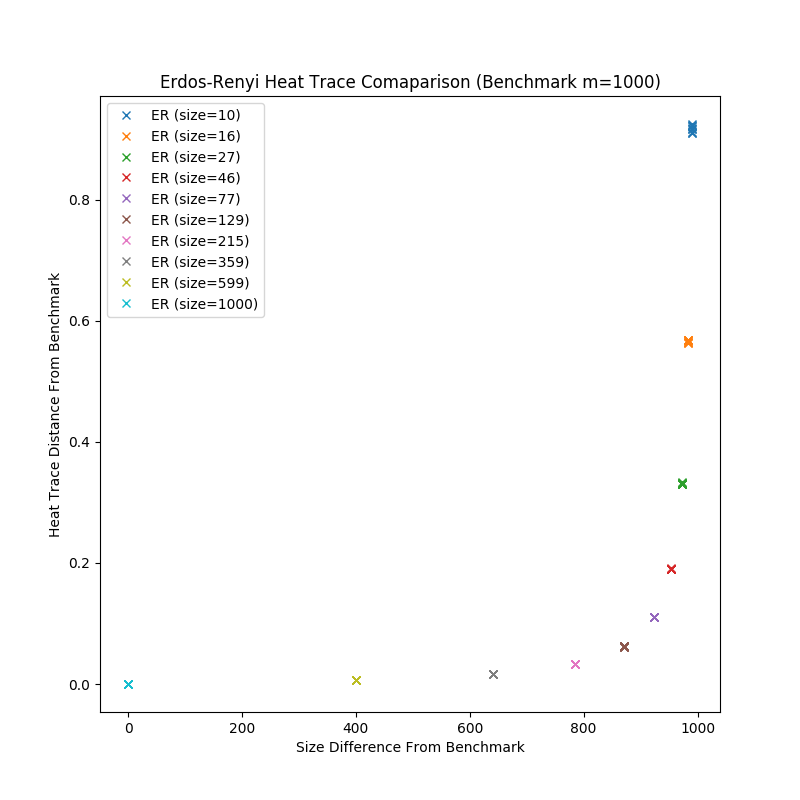
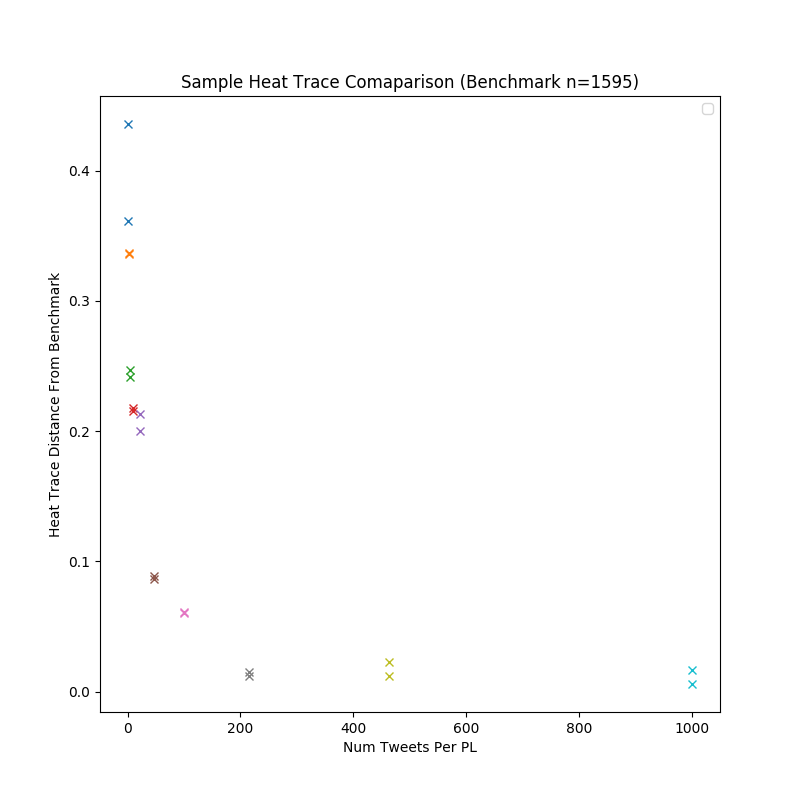
43 tweets per party leader seems to be sufficient to capture the structure of the graph. Running the alpha sweep to test and see. with new way of adding nodes

diff --git a/graph/stochastic_block_model.py b/graph/stochastic_block_model.py
@@ -146,12 +146,12 @@ def draw_graph(G, save=False, file_name="stochastic_block_graph", file_type='png
     print("--- Drawing {} nodes and {} edges ---".format(len(G.nodes()),
                                                          G.number_of_edges()))
     width = 0.2 if not transparent else 0
-    # node_size = 20 if not transparent else 200
+    node_size = 20 if not transparent else 200
     nx.draw_networkx(G, pos,
                      node_color=colors,
                      with_labels=False,
                      alpha=0.75,
-                     node_size=200,
+                     node_size=node_size,
                      width=width,
                      arrows=False
                      )
@@ -376,8 +376,10 @@ def stochastic_hybrid_graph(alpha=0.8,n=5, tweet_dist=(1000, 300), k=7, m=60000,
     pbar = tqdm.tqdm(total=m) if verbose else None
     retweets_per_user = sample_from_histogram(retweet_histogram,m) 
     topic_leader = [i for i in range(n*k)]
+    # assert np.min(retweets_per_user) > 0, str(retweets_per_user)
     for j,d in enumerate(retweets_per_user):    
         if verbose: pbar.update(1)
+        assert d >0, "retweets per user {}".format(retweets_per_user)
         username = "user_{}".format(j)
         topic_history = G.nodes()[username]["topic_history"].copy()
         leader_history = G.nodes()[username]["leader_history"].copy()
@@ -387,11 +389,11 @@ def stochastic_hybrid_graph(alpha=0.8,n=5, tweet_dist=(1000, 300), k=7, m=60000,
             leader_distribution = predict_next_retweet(leader_history, NEXT_LEADER_NN, use_model=use_model).reshape((1, n))
             topic_distribution *= (1-alpha)
             leader_distribution *= alpha
-            # normalize 
-            if k>n:
-                topic_distribution *= (k/n)
-            else:
-                leader_distribution *= (n/k)
+            # # normalize 
+            # if k>n:
+            #     topic_distribution *= (k/n)
+            # else:
+            #     leader_distribution *= (n/k)
             # Add the weighted distributions together. Element (i,j) in this
             # matrix means the weight of choosing a tweet about topic i from party leader j
             topic_leader_matrix = topic_distribution.T+leader_distribution
@@ -403,7 +405,6 @@ def stochastic_hybrid_graph(alpha=0.8,n=5, tweet_dist=(1000, 300), k=7, m=60000,
             winning_topic, winning_leader = np.unravel_index(topic_leader_ind, (k, n))
             pos_tweets = possible_tweets(G, username, leader=winning_leader, topic=winning_topic)
             if len(pos_tweets) > 0:
-                # print(winning_leader,leader_distribution)
                 winning_tweet = np.random.choice(pos_tweets)
                 leader_history[winning_leader] += 1
                 topic_history[winning_topic] += 1
@@ -423,8 +424,7 @@ Twitter Data
 if __name__ == "__main__":
     usernames = sys.argv[1:] if sys.argv[1:] else ["JustinTrudeau", "ElizabethMay", "theJagmeetSingh", "AndrewScheer", "MaximeBernier"]
     retweet_histogram = Graph(usernames).retweet_histogram()
-    sample_g = Graph(usernames,n=50)
-    sample_g.draw_graph(save=True)
+    sample_g = Graph(usernames,n=100)
     kwargs = {
         "tweet_dist": (sample_g.num_tweets, sample_g.num_tweets//5),
         "n": 5,
@@ -437,12 +437,12 @@ if __name__ == "__main__":
     str_args = str({i:kwargs[i] for i in kwargs if i!='retweet_histogram'})
     party_file_name="stochastic_party_leader_{}".format(str_args)
     party_G = stochastic_party_leader_graph(**kwargs)
-    draw_graph(party_G,save=True,file_name=party_file_name,title="Party Leader Graph")
+    draw_graph(party_G,save=False,file_name=party_file_name,title="Party Leader Graph")
     topic_file_name="stochastic_topic_{}".format(str_args)
     topic_G = stochastic_topic_graph(**kwargs)
-    draw_graph(topic_G,save=True,file_name=topic_file_name,title="Topic Graph")
+    draw_graph(topic_G,save=False,file_name=topic_file_name,title="Topic Graph")
     for alpha in np.round(np.arange(1,-0.01,-0.1),3).tolist():
         print("--- alpha {} --".format(alpha))
         hybrid_file_name = "stochastic_hybrid_graph_alpha={}_{}".format(alpha,str_args)
         hybrid_G = stochastic_hybrid_graph(alpha=alpha,**kwargs)
-        draw_graph(hybrid_G, save=True, file_name=hybrid_file_name, title="Hybrid Graph. Alpha={}".format(alpha))
+        draw_graph(hybrid_G, save=False, file_name=hybrid_file_name, title="Hybrid Graph. Alpha={}".format(alpha))

diff --git a/graph/comp_graphs.py b/graph/comp_graphs.py
@@ -77,7 +77,7 @@ def plot_heat_traces(heat_dict,is_normalized=True,save_fig=False):
             ax.fill_between(times, heat_traces+std_dev, heat_traces-std_dev, alpha=0.5)
         ax.plot(times,heat_traces,label=label)
     ax.legend()
-    file_name = "_".join(heat_dict.keys()).replace(" ", "_").lower()
+    file_name = '_'.join(map(str, heat_dict.keys())).replace(" ", "_").lower()
     file_name += "_heat_trace_plot"
     file_name = "normalized_"+file_name if is_normalized else file_name
     plt.savefig("../visualizations/heat_traces/{}.png".format(file_name)) if save_fig else plt.show()
@@ -189,9 +189,10 @@ def fit_hybrid_model(target_graph,num_epochs=1000,learning_rate=0.01,min_delta=0
 if __name__ == "__main__":
     usernames = sys.argv[1:] if sys.argv[1:] else ["JustinTrudeau", "ElizabethMay", "theJagmeetSingh", "AndrewScheer", "MaximeBernier"]
     retweet_histogram = Graph(usernames).retweet_histogram()
-    sample_g = Graph(usernames,n=50)
+    n=215
+    sample_g = Graph(usernames,n=n)
     kwargs = {
-        "tweet_dist": (sample_g.num_tweets, sample_g.num_tweets//5),
+        "tweet_dist": (n,n//5),
         "n": 5,
         "m": sample_g.num_retweeters,
         "epsilon": 0.9,
@@ -199,16 +200,18 @@ if __name__ == "__main__":
         "verbose": False,
         "retweet_histogram": retweet_histogram
     } 
+    sample_g = sample_g.G
     graph_dict = {"Original Graph": sample_g}
     alpha_vals = np.round(np.arange(0,1.01,0.05),2)
     num_per_alpha = 3
     pbar = tqdm.tqdm(total=len(alpha_vals)*num_per_alpha)
     for alpha in alpha_vals:
-        # print("--- generating hybrid (a={}) ---".format(alpha))
         graph_dict[alpha] = [stochastic_hybrid_graph(alpha,**kwargs) for _ in range(num_per_alpha)]
+        draw_graph(graph_dict[alpha][-1],save=True,file_name="stochastic_hybrid_graph_alpha={}".format(alpha),title="Hybrid Graph. Alpha={}".format(alpha))
         pbar.update(num_per_alpha)
     pbar.close()
     heat_dict = calc_heat(graph_dict=graph_dict)
+    plot_heat_traces(heat_dict,save_fig=True)
     fig = plt.figure(figsize = (8,8))
     ax = fig.add_subplot(1,1,1)
     ax.set_title("Hybrid Model Comparison (Benchmark n=10)")
@@ -219,4 +222,29 @@ if __name__ == "__main__":
             alphas = [alpha for _ in range(len(heat_traces))] if type(heat_traces) is list else alpha
             heat_trace_dif = [compare(heat_dict["Original Graph"],heat_trace) for heat_trace in heat_traces] if type(heat_traces) is list else compare(heat_dict["Original Graph"],heat_traces)
             ax.plot(alphas,heat_trace_dif,'x',c="blue")
-    plt.savefig("../visualizations/heat_traces/hybrid_heat_trace_difference_a={}.png".format(str(alpha_vals)))
+    plt.savefig("../visualizations/heat_traces/hybrid_heat_trace_difference_a={}_n={}.png".format('_'.join(map(str, alpha_vals)),n))
+
+# if __name__ == "__main__":
+#     usernames = sys.argv[1:] if sys.argv[1:] else ["JustinTrudeau", "ElizabethMay", "theJagmeetSingh", "AndrewScheer", "MaximeBernier"]
+#     og_graph = Graph(usernames)
+#     num_tweets = int(np.log10(og_graph.num_tweets//len(usernames)))
+#     graph_dict = {"Original Graph": og_graph.G}
+#     n_vals = np.unique(np.round(np.logspace(1,num_tweets,10)))
+#     for sample in np.unique(np.round(np.logspace(0,num_tweets,10))):
+#         sample = int(sample)
+#         print("--- generating sample size size {} ---".format(sample))
+#         graph_dict[sample] = [Graph(usernames,n=sample).G for _ in range(2)]
+#     heat_dict = calc_heat(graph_dict=graph_dict)
+#     fig = plt.figure(figsize = (8,8))
+#     ax = fig.add_subplot(1,1,1)
+#     ax.set_title("Sample Heat Trace Comaparison (Benchmark n={})".format(int(og_graph.num_tweets//len(usernames))))
+#     ax.set_xlabel("Num Tweets Per PL")
+#     ax.set_ylabel("Heat Trace Distance From Benchmark")
+#     for (key,heat_traces) in heat_dict.items():
+#         if key != "t" and key != "Original Graph":
+#             size_dif = [key for _ in range(len(heat_traces))] if type(heat_traces) is list else key
+#             heat_trace_dif = [compare(heat_dict["Original Graph"],heat_trace) for heat_trace in heat_traces] if type(heat_traces) is list else compare(heat_dict["Original Graph"],heat_traces)
+#             ax.plot(size_dif,heat_trace_dif,'x')
+#     ax.legend(loc="best")
+#     plt.savefig("../visualizations/heat_traces/heat_trace_difference.png")
+#     # plot_heat_traces(heat_dict,is_normalized=True,save_fig=True)

diff --git a/graph/build_graph.py b/graph/build_graph.py
@@ -179,7 +179,7 @@ class Graph(object):
 
     def retweet_histogram(self):
         degree_sequence = [d for n, d in self.G.degree() if self.G.nodes[n]["type"] == "retweet"]
-        return np.histogram(degree_sequence, bins=max(len(degree_sequence)//30,self.num_tweets))
+        return np.histogram(degree_sequence, bins=len(degree_sequence)//2)
 
     def __len__(self):
         return len(self.G)
